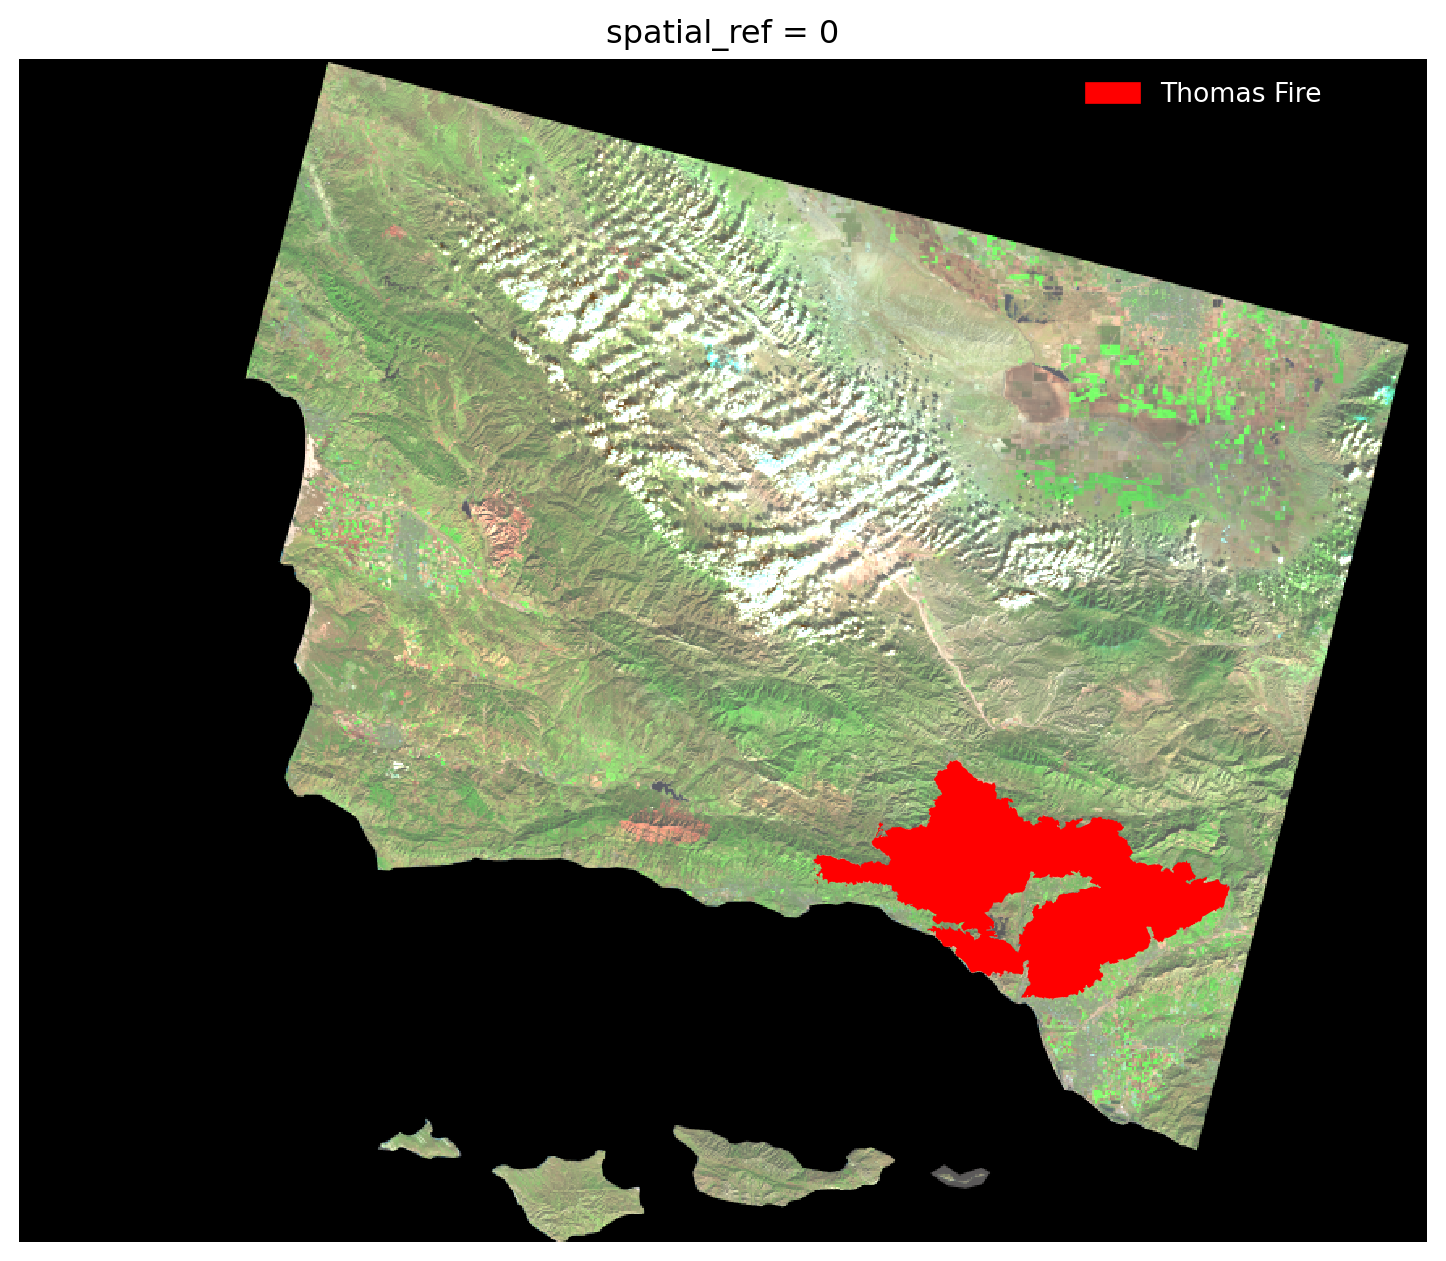
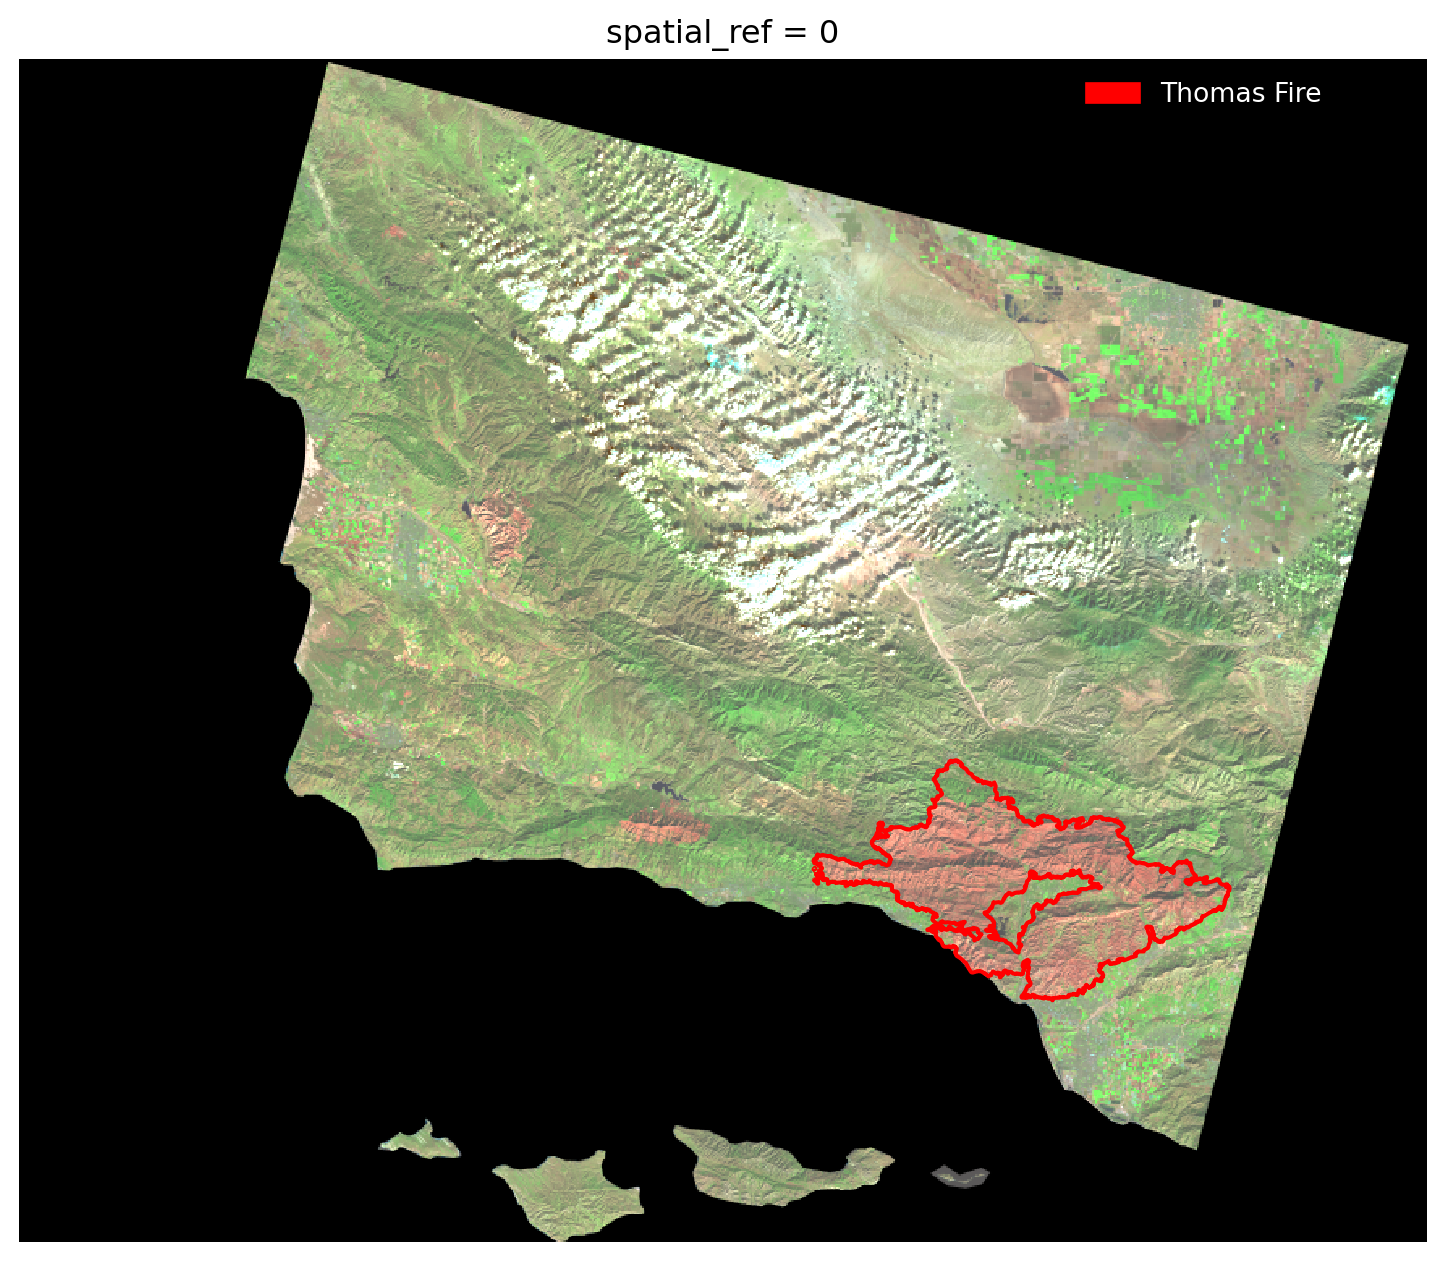
update thomas fire

Changed region(s): [[0.5602, 0.5876, 0.8714, 0.8041]]

diff --git a/docs/projects/2023-12-05-fire-aqi/index.html b/docs/projects/2023-12-05-fire-aqi/index.html
@@ -338,7 +338,7 @@ div.csl-indent {
 <span id="cb4-4"><a href="#cb4-4" aria-hidden="true" tabindex="-1"></a></span>
 <span id="cb4-5"><a href="#cb4-5" aria-hidden="true" tabindex="-1"></a>landsat[[<span class="st">'swir22'</span>, <span class="st">'nir08'</span>, <span class="st">'red'</span>]].to_array().plot.imshow(robust<span class="op">=</span><span class="va">True</span>, ax<span class="op">=</span> ax)</span>
 <span id="cb4-6"><a href="#cb4-6" aria-hidden="true" tabindex="-1"></a></span>
-<span id="cb4-7"><a href="#cb4-7" aria-hidden="true" tabindex="-1"></a>thomas_fire_border.plot(ax<span class="op">=</span>ax, color <span class="op">=</span> <span class="st">'red'</span>) <span class="co"># plot thomas fire ontop of landsat image</span></span>
+<span id="cb4-7"><a href="#cb4-7" aria-hidden="true" tabindex="-1"></a>thomas_fire_border.plot(ax<span class="op">=</span>ax, fc <span class="op">=</span> <span class="st">'none'</span>, edgecolor <span class="op">=</span> <span class="st">"red"</span>, linewidth <span class="op">=</span> <span class="fl">1.5</span>) <span class="co"># plot thomas fire ontop of landsat image</span></span>
 <span id="cb4-8"><a href="#cb4-8" aria-hidden="true" tabindex="-1"></a>fires_patch <span class="op">=</span> mpatches.Patch(color<span class="op">=</span><span class="st">'red'</span>, <span class="co"># change color to red</span></span>
 <span id="cb4-9"><a href="#cb4-9" aria-hidden="true" tabindex="-1"></a>                          label<span class="op">=</span><span class="st">'Thomas Fire'</span>) <span class="co"># update label</span></span>
 <span id="cb4-10"><a href="#cb4-10" aria-hidden="true" tabindex="-1"></a></span>
@@ -349,7 +349,7 @@ div.csl-indent {
 <p><img src="index_files/figure-html/cell-5-output-1.png" width="723" height="631"></p>
 </div>
 </div>
-<p>Here we can see the large are that the Thomas Fire burned in the spatial context of Santa Barbara County.</p>
+<p>Here we can see the large are that the Thomas Fire burned in the spatial context of Santa Barbara County. The red border shows the extent of the fire, and from the Landsat imagery, we can see the burn scar on the land.</p>
 </section>
 <section id="air-quality-index-time-series" class="level1">
 <h1>Air Quality Index Time Series</h1>
@@ -384,7 +384,7 @@ div.csl-indent {
 <span id="cb6-5"><a href="#cb6-5" aria-hidden="true" tabindex="-1"></a>            xlabel <span class="op">=</span> <span class="st">''</span>, <span class="co"># leave x-label blank</span></span>
 <span id="cb6-6"><a href="#cb6-6" aria-hidden="true" tabindex="-1"></a>            color <span class="op">=</span> [<span class="st">'pink'</span>, <span class="st">'grey'</span>], <span class="co"># update to more visible colors</span></span>
 <span id="cb6-7"><a href="#cb6-7" aria-hidden="true" tabindex="-1"></a>           title <span class="op">=</span> <span class="st">'Air Quality Index in Santa Barbara County 2017-2018'</span>) <span class="co"># add a title</span></span></code><button title="Copy to Clipboard" class="code-copy-button"><i class="bi"></i></button></pre></div>
-<div class="cell-output cell-output-display" data-execution_count="6">
+<div class="cell-output cell-output-display" data-execution_count="54">
 <pre><code>&lt;Axes: title={'center': 'Air Quality Index in Santa Barbara County 2017-2018'}, ylabel='Air Quality Index'&gt;</code></pre>
 </div>
 <div class="cell-output cell-output-display">

diff --git a/docs/projects.html b/docs/projects.html
@@ -191,7 +191,7 @@ ul.task-list li input[type="checkbox"] {
 
 <div class="quarto-listing quarto-listing-container-grid" id="listing-listing">
 <div class="list grid quarto-listing-cols-3">
-<div class="g-col-1" data-index="0" data-categories="GIS,MEDS,Python" data-listing-date-sort="1701763200000" data-listing-file-modified-sort="1702016363430" data-listing-date-modified-sort="NaN" data-listing-reading-time-sort="5">
+<div class="g-col-1" data-index="0" data-categories="GIS,MEDS,Python" data-listing-date-sort="1701763200000" data-listing-file-modified-sort="1702149441290" data-listing-date-modified-sort="NaN" data-listing-reading-time-sort="5">
 <a href="./projects/2023-12-05-fire-aqi/index.html" class="quarto-grid-link">
 <div class="quarto-grid-item card h-100 card-left">
 <p class="card-img-top"><img src="projects/2023-12-05-fire-aqi/fire_haze.jpg" style="height: 150px;"  class="thumbnail-image card-img"/></p>
